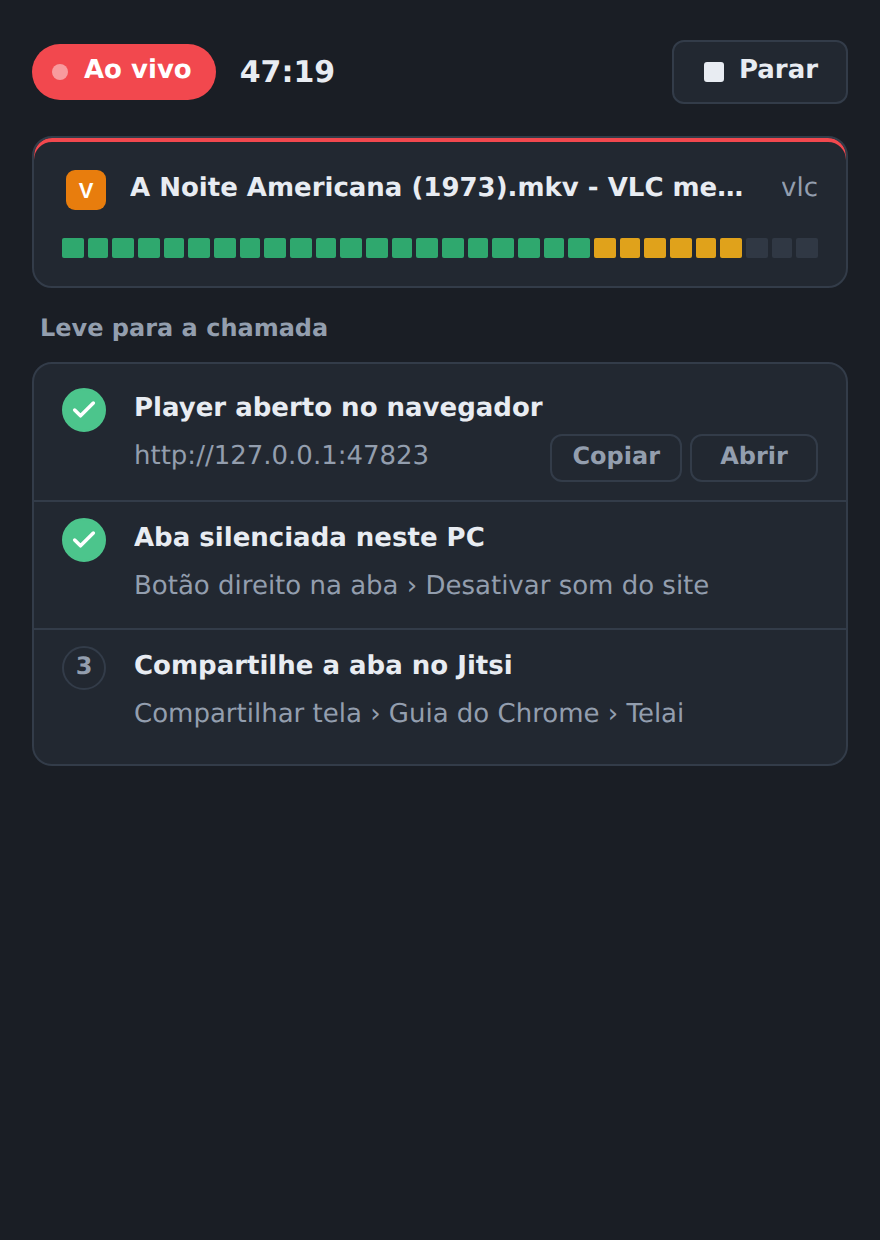
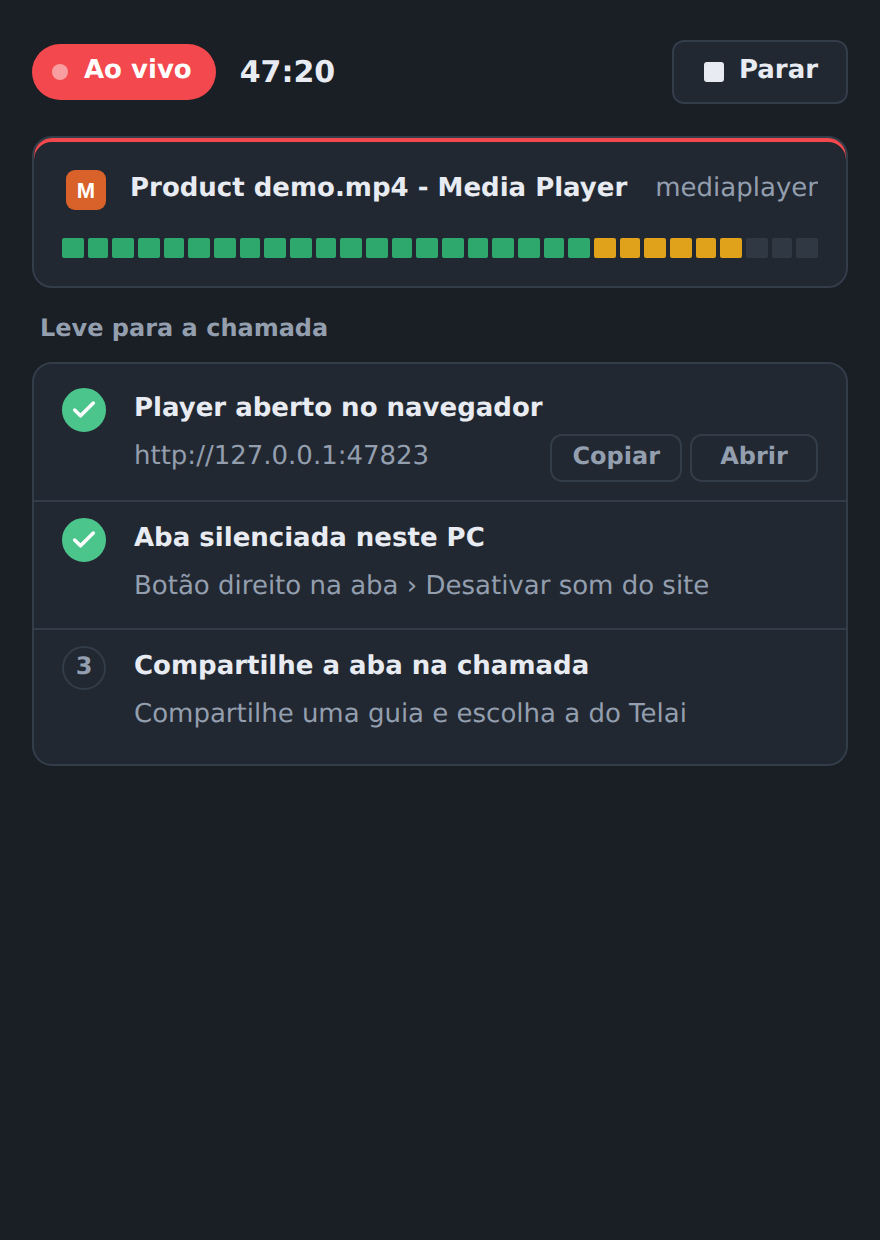
docs: use generic examples and fix the flowchart
The edge into a node named call broke the GitHub renderer, since call
is a Mermaid keyword.

diff --git a/README.pt-BR.md b/README.pt-BR.md
@@ -2,7 +2,7 @@
 
 [English](README.md)
 
-O Telai transmite uma janela do computador, com o som apenas daquele programa, para uma aba do navegador. Essa aba pode ser compartilhada no Jitsi Meet, no Google Meet ou em qualquer chamada que compartilhe abas.
+O Telai transmite uma janela do computador, com o som apenas daquele programa, para uma aba do navegador. Essa aba pode ser compartilhada em qualquer chamada no navegador que compartilhe abas.
 
 <p>
   <img src="docs/images/picker.pt-BR.png" width="330" alt="Seleção de janela, com as janelas que tocam som no topo">
@@ -11,7 +11,7 @@ O Telai transmite uma janela do computador, com o som apenas daquele programa, p
 
 ## O problema
 
-Chamadas no navegador compartilham áudio de duas formas: o áudio de uma aba ou o áudio do sistema inteiro. Um player de desktop como o VLC ou o Stremio não tem aba. O áudio do sistema leva junto todo o resto do PC, incluindo as vozes de uma chamada do Discord em andamento.
+Chamadas no navegador compartilham áudio de duas formas: o áudio de uma aba ou o áudio do sistema inteiro. Um programa de desktop não tem aba. O áudio do sistema leva junto todo o resto do PC: notificações, outros programas e qualquer chat de voz aberto ao mesmo tempo.
 
 O Telai captura a imagem de uma janela e somente o áudio da árvore de processos dela. Ele toca os dois em uma página local, em `http://127.0.0.1:47823`. Compartilhar essa aba na chamada envia a imagem e o som do programa, e nada além disso.
 
@@ -19,15 +19,15 @@ O Telai captura a imagem de uma janela e somente o áudio da árvore de processo
 
 ```mermaid
 flowchart LR
-  window["Janela escolhida<br/>(VLC, Stremio, ...)"]
+  window["Janela escolhida"]
   app["Telai"]
   tab["Aba do player<br/>Chrome ou Edge"]
-  call["Aba da chamada<br/>Jitsi Meet"]
+  meeting["Aba da chamada"]
 
   window -- "Windows Graphics Capture" --> app
   window -- "WASAPI process loopback" --> app
   app -- "Quadros JPEG e áudio PCM<br/>WebSocket em 127.0.0.1" --> tab
-  tab -- "Compartilhar guia, com o áudio da guia" --> call
+  tab -- "Aba compartilhada com o áudio" --> meeting
 ```
 
 - **Vídeo**: o Windows Graphics Capture entrega a janela a até 30 fps. Duas threads de codificação convertem cada quadro em JPEG, reduzido para 1080p quando maior. Um quadro que chega com as duas threads ocupadas é descartado: em uma máquina lenta, a transmissão perde quadros em vez de acumular atraso.
@@ -45,7 +45,7 @@ O Telai identifica o processo do navegador dono da conexão do player e verifica
 1. Abra o Telai e escolha a janela. As janelas que tocam som aparecem primeiro.
 2. Abra o player no Chrome ou no Edge com **Abrir** e clique uma vez na página para liberar o som.
 3. Silencie a aba do player: botão direito na aba, depois **Desativar som do site**.
-4. No Jitsi, escolha **Compartilhar tela**, depois **Guia do Chrome**, depois a aba do Telai.
+4. Na chamada, compartilhe uma aba e escolha a aba do Telai, com o áudio da aba ligado.
 
 Fechar a janela do Telai durante a transmissão mantém o app na área de notificação. Fechar a janela capturada encerra a transmissão.
 

diff --git a/README.md b/README.md
@@ -2,7 +2,7 @@
 
 [Português](README.pt-BR.md)
 
-Telai streams one desktop window, with only that program's sound, to a tab in the browser. The tab can then be shared in Jitsi Meet, Google Meet or any call that shares browser tabs.
+Telai streams one desktop window, with only that program's sound, to a tab in the browser. The tab can then be shared in any browser call that shares tabs.
 
 <p>
   <img src="docs/images/picker.png" width="330" alt="Window picker, with the windows that play sound listed first">
@@ -11,7 +11,7 @@ Telai streams one desktop window, with only that program's sound, to a tab in th
 
 ## The problem
 
-Browser calls share audio in two ways: the audio of one tab, or the audio of the whole system. A desktop player such as VLC or Stremio has no tab, and the system audio also carries everything else on the PC, including the voices of a Discord call in progress.
+Browser calls share audio in two ways: the audio of one tab, or the audio of the whole system. A desktop program has no tab, and the system audio also carries everything else on the PC: notifications, other programs and any voice chat running at the same time.
 
 Telai captures the picture of one window and the audio of its process tree only. It plays both in a local page at `http://127.0.0.1:47823`. Sharing that tab in the call sends the program's picture and sound, and nothing else.
 
@@ -19,15 +19,15 @@ Telai captures the picture of one window and the audio of its process tree only.
 
 ```mermaid
 flowchart LR
-  window["Chosen window<br/>(VLC, Stremio, ...)"]
+  window["Chosen window"]
   app["Telai"]
   tab["Player tab<br/>Chrome or Edge"]
-  call["Call tab<br/>Jitsi Meet"]
+  meeting["Call tab"]
 
   window -- "Windows Graphics Capture" --> app
   window -- "WASAPI process loopback" --> app
   app -- "JPEG frames and PCM audio<br/>WebSocket on 127.0.0.1" --> tab
-  tab -- "Share tab, with tab audio" --> call
+  tab -- "Shared tab with its audio" --> meeting
 ```
 
 - **Video**: Windows Graphics Capture delivers the window at up to 30 fps. Two encoder threads turn each frame into a JPEG, scaled down to 1080p when larger. A frame that arrives while both threads are busy is dropped, so a slow machine loses frames instead of adding delay.
@@ -45,7 +45,7 @@ Telai checks which browser process holds the player connection and whether that 
 1. Run Telai and choose the window. Windows playing sound are listed first.
 2. Open the player in Chrome or Edge with **Open**, and click the page once to allow sound.
 3. Mute the player tab: right-click the tab, then **Mute site**.
-4. In Jitsi, choose **Share screen**, then **Chrome Tab**, then the Telai tab.
+4. In the call, share a tab and choose the Telai tab, with tab audio on.
 
 Closing the window while streaming keeps Telai in the notification area. Closing the captured window ends the stream.
 
